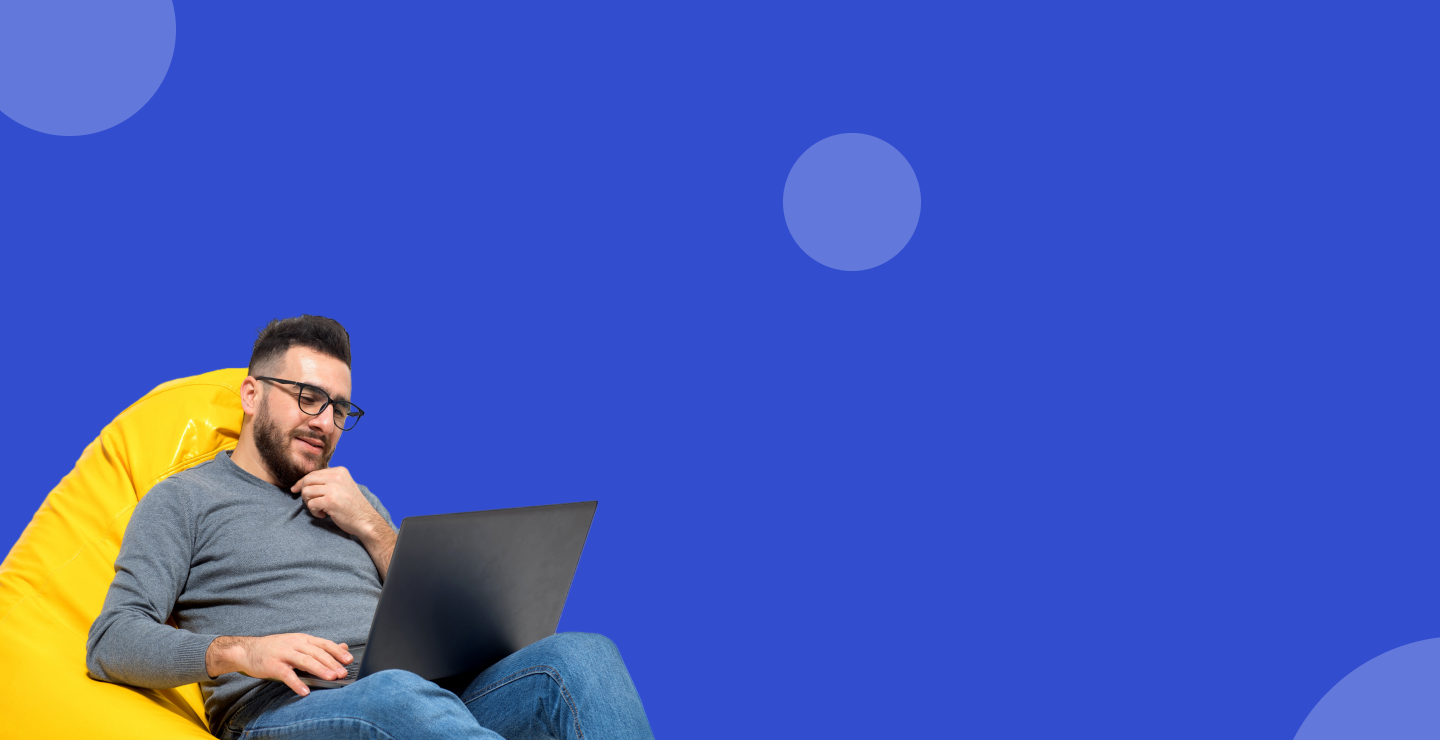
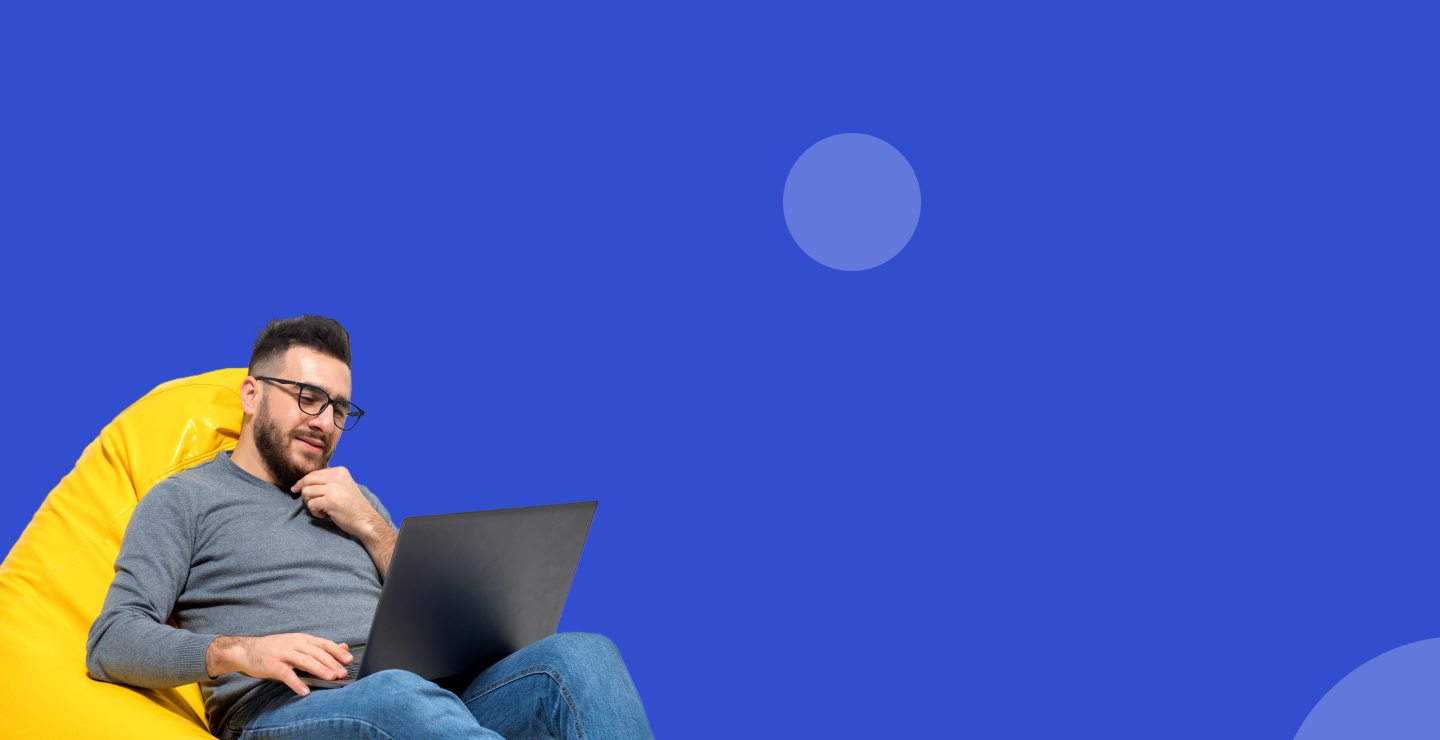
background image

Changed region(s): [[0.0, 0.0, 0.125, 0.1865]]

diff --git a/pages/landing.js b/pages/landing.js
@@ -103,7 +103,9 @@ function Landing(props) {
 
   return (
     <>
-      <section className="banner full-height">
+    <section className='bg'>
+      <img src='/asset/img/background.png' className='bg-img' />
+      <section >
         <Header />
         <div className="grid md:grid-cols-2 ">
           <div className="pt-36 pl-36 hidden md:flex md:flex-col text-white">
@@ -236,6 +238,7 @@ function Landing(props) {
           )}
         </div>
       </section>
+    </section>
 
       <section className="grid xl:grid-cols-3 gap-4 md:mx-16 my-20">
         <div className="m-2 ">

diff --git a/styles/Landing.css b/styles/Landing.css
@@ -1,6 +1,18 @@
-.banner{
-  background-image: url('/asset/img/background.png');
-  height: 740px;
-  background-size: 'cover';
-  background-position: center;
+.bg{
+  position: 'fixed';
+  top: '0%';
+  left: '0%';
+  width: '100%';
+  height: '100%';
+}
+
+.bg-img {
+  position: absolute; 
+  top: 0; 
+  left: 0; 
+  right: 0; 
+  bottom: 0; 
+  min-width: 100%;
+  min-height: -20%;
+  z-index:-1;
 }
